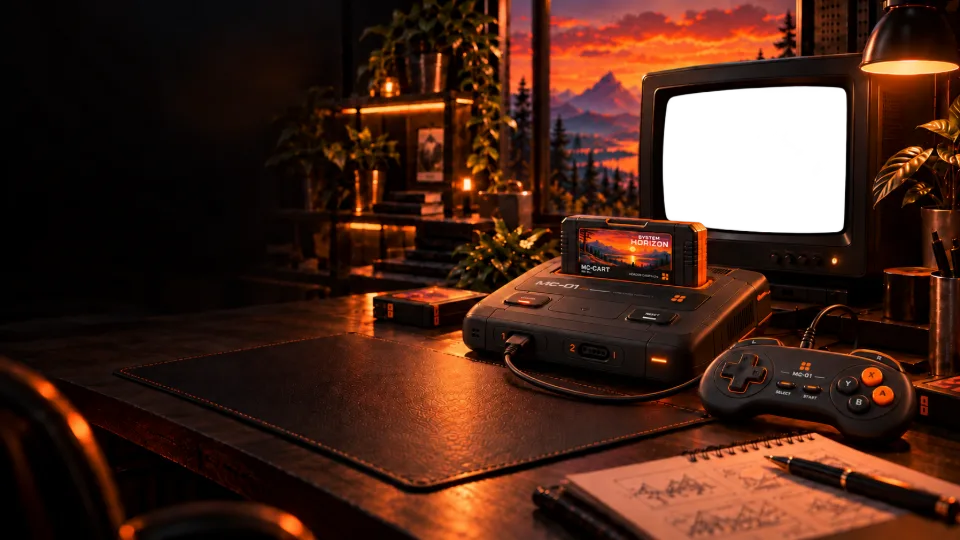
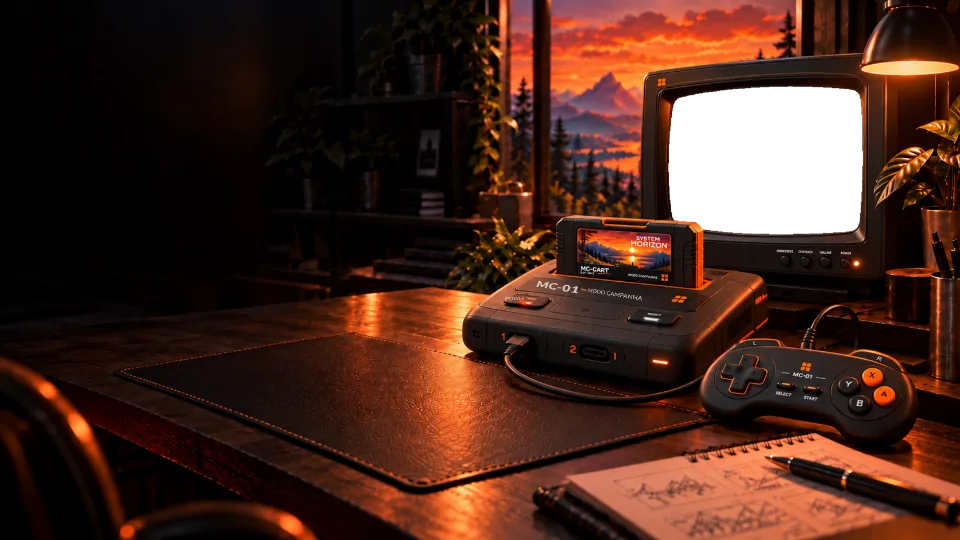
feat(hero): replace the provisional background with the final art (D-086)
The new 3344 x 1882 master (generated externally from the docs/21 §8.2
brief, edited round v2) shows the official CRT, MC-01, MC-001 and
controller with a transparent CRT tube. Alpha normalized; WebP
derivatives regenerated by build-background.mjs, adding 2560/3344 and
mobile 1200. The glass was re-measured: HERO_CRT_GLASS and the .crt box
follow the new tube, so the SYSTEM HORIZON teaser stays aligned. The
previous master is kept as hero-background-v1.png.

diff --git a/src/app/features/hero/hero-scene.assets.ts b/src/app/features/hero/hero-scene.assets.ts
@@ -16,26 +16,28 @@ const image = (name: string, widths: number[], width: number, height: number): H
 });
 
 /**
- * Fundo da Hero (D-067): a imagem aprovada do setup MC-01 ao pôr do sol, usada direto (sem montar
- * a cena com renders separados). Fonte em `design/source/hero/hero-background.png` (1672 × 941).
+ * Fundo da Hero (D-067; arte final D-086): o setup MC-01 ao pôr do sol com as peças oficiais
+ * (CRT, MC-01, MC-001, controle), usado direto. Mestre 2× em `design/source/hero/hero-background.png`
+ * (3344 × 1882, tubo do CRT transparente); derivados gerados por `build-background.mjs`.
+ * Coordenadas nos comentários e no SCSS estão na fonte 1× (1672 × 941).
  * `mobile` é um recorte quadrado da mesma imagem (console, CRT e controle; x 628–1569), para o
  * celular não baixar a imagem inteira só para mostrar o centro dela.
  */
 export const HERO_BACKGROUND = {
-  full: image('background', [640, 960, 1280, 1672], 1672, 941),
-  mobile: image('background-mobile', [480, 800], 800, 800),
+  full: image('background', [640, 960, 1280, 1672, 2560, 3344], 3344, 1882),
+  mobile: image('background-mobile', [480, 800, 1200], 1200, 1200),
 };
 
 /**
- * Cantos da tela do SYSTEM HORIZON, em frações da caixa x 1152–1477, y 151–405 da fonte
+ * Cantos da tela do SYSTEM HORIZON, em frações da caixa x 1159,5–1507,5, y 150,5–408,5 da fonte
  * (posicionada em `hero-scene.scss`). O tubo do CRT é transparente na imagem (D-080) e a tela fica
  * ATRÁS dela. A folga é só lateral (~4,5 px além do vidro), porque a tela 4:3 escala pela altura:
  * folga vertical ampliaria o teaser e levaria o HUD para baixo do aro. Em cima e embaixo, onde o
  * tubo é abaulado, sobram até ~3 px de vidro escuro. A TV está levemente girada (lado direito mais alto).
  */
 export const HERO_CRT_GLASS: ScreenQuad = [
-  [0, 0.04],
+  [0.01, 0.038],
   [1, 0],
-  [0.994, 1],
-  [0, 0.98],
+  [0.993, 1],
+  [0, 0.976],
 ];

diff --git a/src/app/features/hero/hero-scene.scss b/src/app/features/hero/hero-scene.scss
@@ -14,10 +14,10 @@
   // Imagem mostrada: recorte quadrado no mobile (HERO_BACKGROUND.mobile, x 628–1569 da fonte).
   --ar: 1;
   --pos: 50%;
-  // Caixa da tela na imagem mostrada (fonte 1672 × 941: x 1152–1477, y 151–405; folga só lateral);
+  // Caixa da tela na imagem mostrada (fonte 1672 × 941: x 1159,5–1507,5, y 150,5–408,5; folga só lateral);
   // os cantos dentro dela (perspectiva da TV) estão em HERO_CRT_GLASS.
-  --sx: 55.69%;
-  --sw: 34.54%;
+  --sx: 56.48%;
+  --sw: 36.98%;
   // Máscara (local): opaca entre --x1/--x2 e --y1/--y2, dissolvendo até --x0 e as bordas.
   --x0: 0%;
   --x1: 12%;
@@ -30,8 +30,8 @@
     aspect-ratio: 3 / 2;
     --ar: 1672 / 941;
     --pos: 80%;
-    --sx: 68.9%;
-    --sw: 19.44%;
+    --sx: 69.35%;
+    --sw: 20.81%;
   }
 
   // Desktop compacto: ao lado do texto (colunas 7–12), sangrando só à direita.
@@ -94,9 +94,9 @@ img {
 .crt {
   position: absolute;
   left: var(--sx);
-  top: 16.05%;
+  top: 15.99%;
   width: var(--sw);
-  height: 26.99%;
+  height: 27.42%;
 }
 
 // Pausar/reproduzir (WCAG 2.2.2): pequeno, no canto inferior do visual, sem competir com os CTAs.

diff --git a/src/app/features/hero/hero-section.spec.ts b/src/app/features/hero/hero-section.spec.ts
@@ -71,9 +71,9 @@ describe('HeroSection', () => {
     expect(images.length).toBe(1);
     // Tablet/desktop: a imagem inteira; mobile: recorte da mesma imagem, mais leve.
     expect(frame.querySelector('source')?.getAttribute('srcset')).toMatch(
-      /background-640\.webp 640w, .*background-1672\.webp 1672w$/,
+      /background-640\.webp 640w, .*background-3344\.webp 3344w$/,
     );
-    expect(images[0].getAttribute('src')).toBe('assets/hero/background-mobile-800.webp');
+    expect(images[0].getAttribute('src')).toBe('assets/hero/background-mobile-1200.webp');
     expect(images[0].getAttribute('alt')).toBe('');
     expect(frame.querySelectorAll('a, button, [tabindex]').length).toBe(0);
   });
